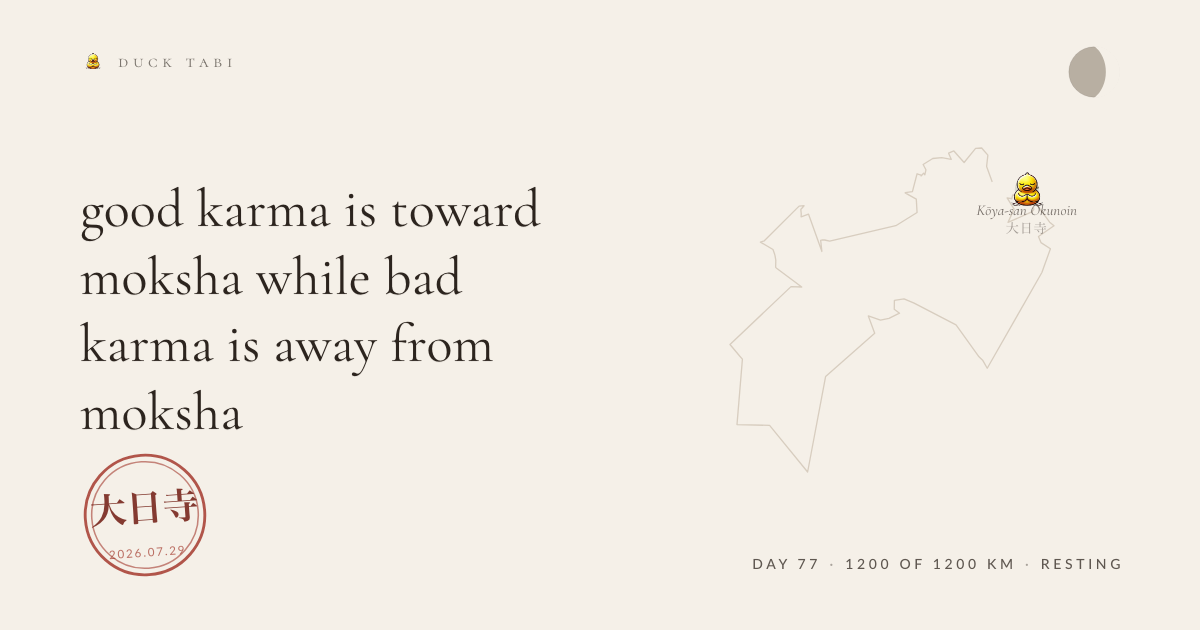
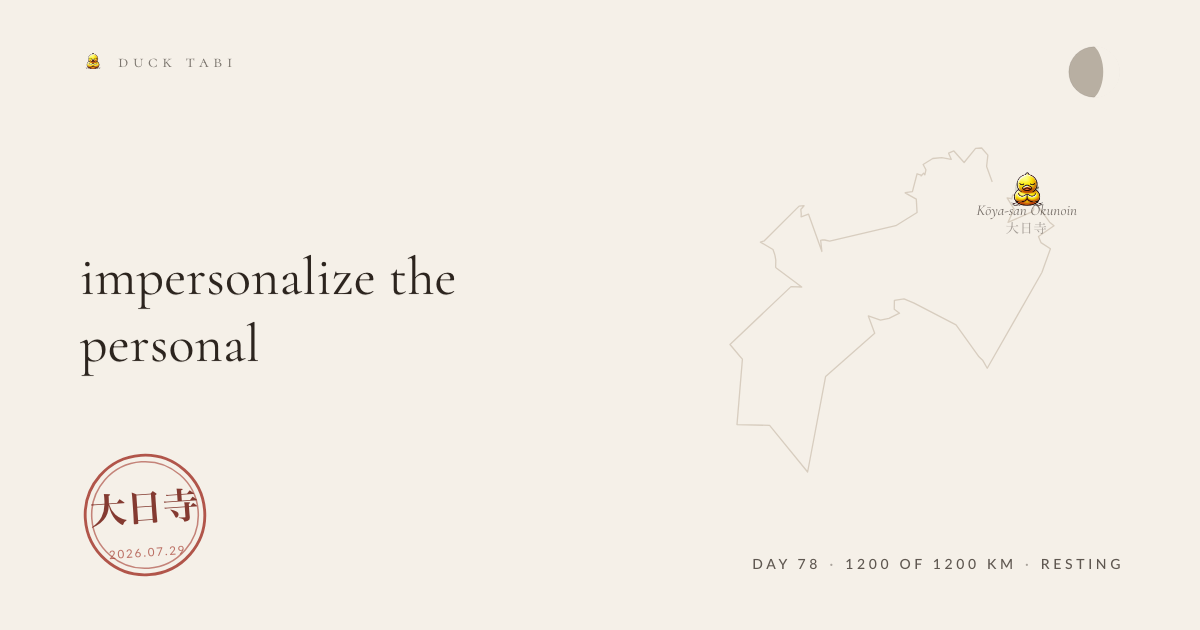
the duck walks

diff --git a/entries/2026-10-15-meditation.md b/entries/2026-10-15-meditation.md
@@ -1,0 +1,14 @@
+---
+date: '2026-10-15'
+route: shikoku-88
+stage: 4
+stageName: Kōya-san Okunoin
+coords: [135.589, 34.2167]
+kind: meditation
+glyph: ≡
+weather: clear, 11°C
+kmFromStart: 9
+heardId: ce84d223
+---
+
+impersonalize the personal
